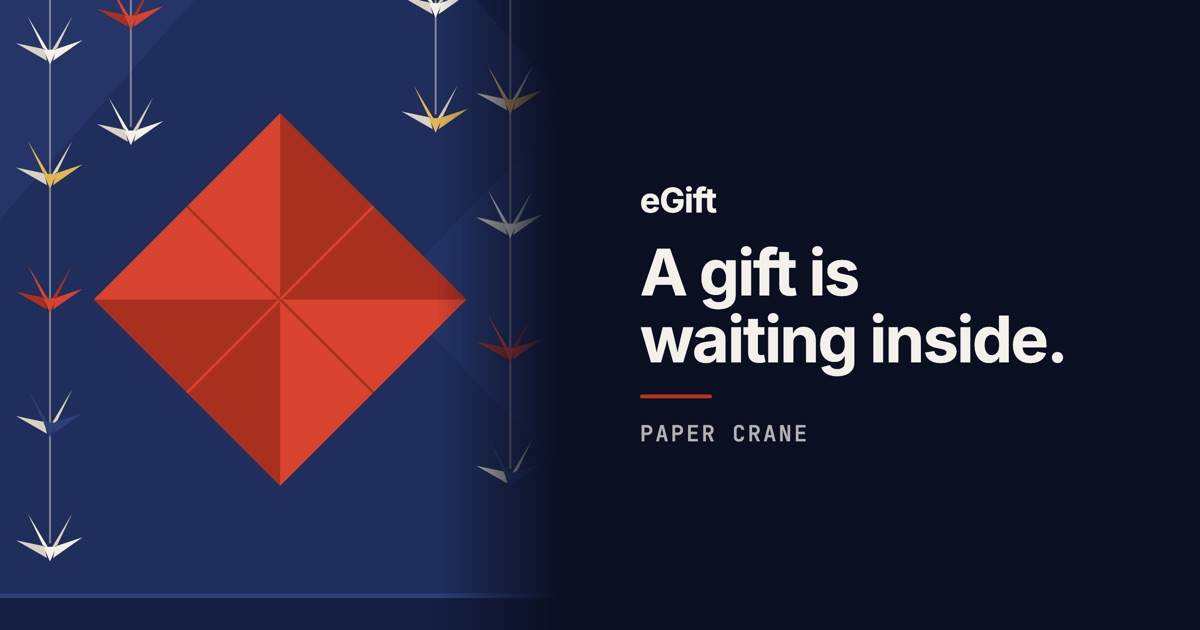
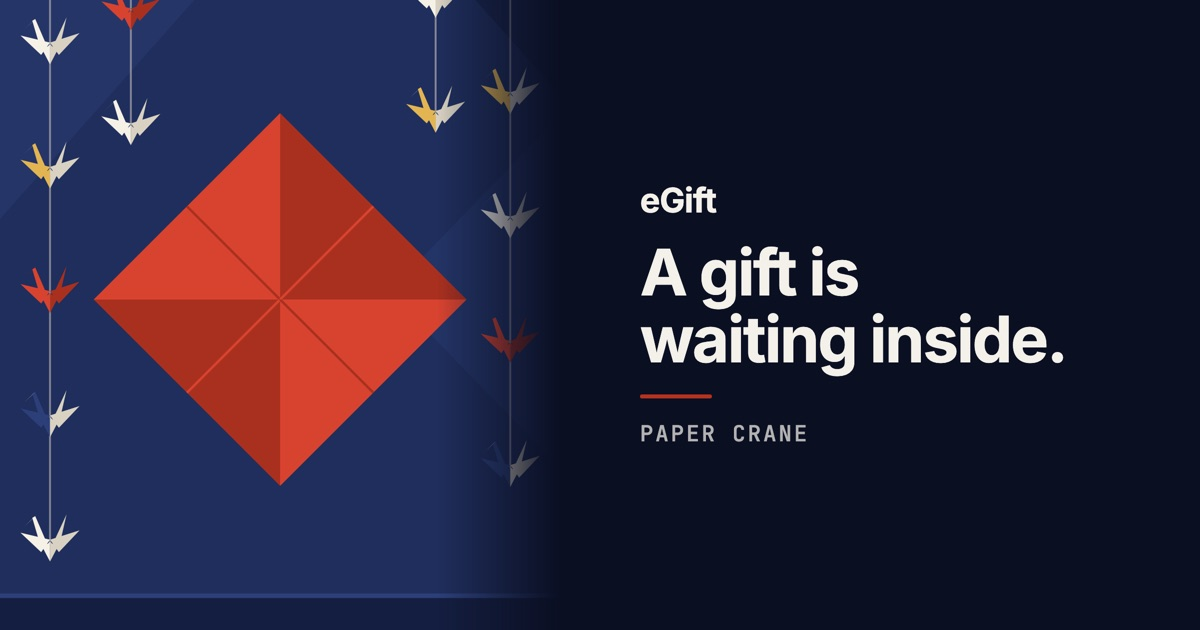
Paper crane: redrawn as an orizuru
The finished crane now has the parts a folded crane has: a compact body,
two broad wings, a thin neck rising steeply with the head folded down, and
a plain spike of a tail. The head is its own layer and folds last. The
small cranes on the strings and in the distance follow the same shape.

diff --git a/src/wrappers/crane.ts b/src/wrappers/crane.ts
@@ -7,7 +7,7 @@ import { scaled, together, tune } from './tune';
  * paper stands on its corner, its creases showing, strings of small cranes
  * hanging down the sides of an indigo room. Opening: the sheet folds in half,
  * gathers to a single spine, and from the spine the body, the wings, the neck
- * and the tail swing out; the crane lifts, and three more go by further off.
+ * and the tail swing out and the head folds down; the crane lifts, and three more go by further off.
  *
  * The stage moves, turns and scales whole layers, so a fold is a scale
  * through zero and the crane is assembled from parts that turn about their
@@ -17,9 +17,9 @@ import { scaled, together, tune } from './tune';
  * (scripts/art/crane.gen.mjs): each SVG's viewBox is its box.
  */
 
-const PARTS = ['body', 'wing-l', 'wing-r', 'neck', 'tail'] as const;
+const PARTS = ['body', 'wing-l', 'wing-r', 'neck', 'head', 'tail'] as const;
 /** How far the finished crane lifts. */
-const LIFT = -12;
+const LIFT = -6;
 
 const open: Step[] = [
     // 1. The sheet folds in half: the upper half comes down (a scale through zero), showing its white side.
@@ -30,17 +30,20 @@ const open: Step[] = [
     { kind: 'move', layer: 'sheet-low', at: 700, dur: 340, ease: 'inout', to: { sx: 0.05 } },
     { kind: 'move', layer: 'sheet-in', at: 1000, dur: 120, to: { opacity: 0 } },
     { kind: 'move', layer: 'sheet-low', at: 1000, dur: 120, to: { opacity: 0 } },
-    // 3. From the spine: the body, then the wings, then neck and tail, each about its joint.
+    // 3. From the spine: the body, then the wings swing down and out, then neck and tail swing up, each
+    //    about its joint; last the tip of the neck folds down into the head.
     { kind: 'move', layer: 'body', at: 960, dur: 80, to: { opacity: 1 } },
     { kind: 'move', layer: 'body', at: 960, dur: 380, ease: 'back', to: { sx: 1 } },
-    { kind: 'move', layer: 'wing-l', at: 1160, dur: 60, to: { opacity: 1 } },
-    { kind: 'move', layer: 'wing-l', at: 1160, dur: 560, ease: 'back', to: { sx: 1, sy: 1, turn: 0 } },
-    { kind: 'move', layer: 'wing-r', at: 1240, dur: 60, to: { opacity: 1 } },
-    { kind: 'move', layer: 'wing-r', at: 1240, dur: 560, ease: 'back', to: { sx: 1, sy: 1, turn: 0 } },
-    { kind: 'move', layer: 'neck', at: 1420, dur: 60, to: { opacity: 1 } },
-    { kind: 'move', layer: 'neck', at: 1420, dur: 460, ease: 'back', to: { sx: 1, turn: 0 } },
-    { kind: 'move', layer: 'tail', at: 1500, dur: 60, to: { opacity: 1 } },
-    { kind: 'move', layer: 'tail', at: 1500, dur: 460, ease: 'back', to: { sx: 1, turn: 0 } },
+    { kind: 'move', layer: 'wing-l', at: 1140, dur: 60, to: { opacity: 1 } },
+    { kind: 'move', layer: 'wing-l', at: 1140, dur: 520, ease: 'back', to: { sx: 1, sy: 1, turn: 0 } },
+    { kind: 'move', layer: 'wing-r', at: 1220, dur: 60, to: { opacity: 1 } },
+    { kind: 'move', layer: 'wing-r', at: 1220, dur: 520, ease: 'back', to: { sx: 1, sy: 1, turn: 0 } },
+    { kind: 'move', layer: 'neck', at: 1360, dur: 60, to: { opacity: 1 } },
+    { kind: 'move', layer: 'neck', at: 1360, dur: 440, ease: 'back', to: { sy: 1, turn: 0 } },
+    { kind: 'move', layer: 'tail', at: 1440, dur: 60, to: { opacity: 1 } },
+    { kind: 'move', layer: 'tail', at: 1440, dur: 440, ease: 'back', to: { sy: 1, turn: 0 } },
+    { kind: 'move', layer: 'head', at: 1800, dur: 40, to: { opacity: 1 } },
+    { kind: 'move', layer: 'head', at: 1800, dur: 220, ease: 'out', to: { turn: 0 } },
     { kind: 'scatter', layer: 'fleck', at: 1300, dur: 1100, count: 12, spread: 130, fall: 70 },
     // 4. The crane lifts; three more pass further off.
     ...PARTS.map((layer): Step => ({ kind: 'move', layer, at: 2000, dur: 900, ease: 'inout', to: { y: LIFT } })),
@@ -61,8 +64,8 @@ const idle: IdleStep[] = [
 const afterglow: IdleStep[] = [
     ...hang,
     ...PARTS.map((layer): IdleStep => ({ layer, field: 'y', amp: 4, period: 5200 })),
-    { layer: 'wing-l', field: 'turn', amp: 5, period: 2600 },
-    { layer: 'wing-r', field: 'turn', amp: 5, period: 2600, phase: 0.5 },
+    { layer: 'wing-l', field: 'turn', amp: 4, period: 2600 },
+    { layer: 'wing-r', field: 'turn', amp: 4, period: 2600, phase: 0.5 },
     { layer: 'flock', field: 'y', amp: 3, period: 4400, phase: 0.3 },
 ];
 
@@ -87,11 +90,13 @@ export const crane: WrapperDef = {
         { id: 'sheet-low', art: 'sheet-low.svg', box: [60, 215, 240, 120], depth: 0.4 },
         { id: 'sheet-in', art: 'sheet-in.svg', box: [60, 215, 240, 120], origin: [0.5, 0], start: { sy: 0 }, depth: 0.4 },
         { id: 'sheet-up', art: 'sheet-up.svg', box: [60, 95, 240, 120], origin: [0.5, 1], depth: 0.4 },
-        { id: 'tail', art: 'tail.svg', box: [184, 190, 116, 92], origin: [8 / 116, 76 / 92], start: { opacity: 0, sx: 0.2, turn: 78 }, depth: 0.45 },
-        { id: 'neck', art: 'neck.svg', box: [44, 196, 132, 86], origin: [124 / 132, 70 / 86], start: { opacity: 0, sx: 0.2, turn: -78 }, depth: 0.45 },
-        { id: 'wing-r', art: 'wing-r.svg', box: [176, 86, 104, 184], origin: [6 / 104, 164 / 184], start: { opacity: 0, sx: 0.25, sy: 0.1, turn: 40 }, depth: 0.5 },
-        { id: 'wing-l', art: 'wing-l.svg', box: [80, 86, 104, 184], origin: [98 / 104, 164 / 184], start: { opacity: 0, sx: 0.25, sy: 0.1, turn: -40 }, depth: 0.5 },
-        { id: 'body', art: 'body.svg', box: [150, 226, 60, 84], start: { opacity: 0, sx: 0.1 }, depth: 0.5 },
+        { id: 'tail', art: 'tail.svg', box: [180, 120, 86, 174], origin: [18 / 86, 164 / 174], start: { opacity: 0, sy: 0.25, turn: 115 }, depth: 0.45 },
+        { id: 'neck', art: 'neck.svg', box: [94, 124, 86, 170], origin: [70 / 86, 160 / 170], start: { opacity: 0, sy: 0.25, turn: -115 }, depth: 0.45 },
+        // The head starts turned up in line with the neck, and folds down about the bend.
+        { id: 'head', art: 'head.svg', box: [64, 122, 50, 50], origin: [40 / 50, 9 / 50], start: { opacity: 0, turn: 108 }, depth: 0.45 },
+        { id: 'wing-r', art: 'wing-r.svg', box: [174, 190, 144, 112], origin: [22 / 144, 82 / 112], start: { opacity: 0, sx: 0.2, sy: 0.3, turn: -72 }, depth: 0.5 },
+        { id: 'wing-l', art: 'wing-l.svg', box: [42, 204, 144, 100], origin: [122 / 144, 68 / 100], start: { opacity: 0, sx: 0.2, sy: 0.3, turn: 72 }, depth: 0.5 },
+        { id: 'body', art: 'body.svg', box: [150, 254, 60, 82], start: { opacity: 0, sx: 0.1 }, depth: 0.5 },
         { id: 'fleck', art: 'fleck.svg', box: [176, 246, 8, 8] },
     ],
     idle,

diff --git a/src/wrappers/colourways.gen.ts b/src/wrappers/colourways.gen.ts
@@ -138,13 +138,13 @@ export const COLOURWAYS: Readonly<Record<string, { readonly own: string; readonl
             {
                 id: 'blue',
                 chip: '#2380DA',
-                files: ['body.svg', 'neck.svg', 'sheet-low.svg', 'sheet-up.svg', 'strings-a.svg', 'strings-b.svg', 'tail.svg', 'wing-l.svg', 'wing-r.svg'],
+                files: ['body.svg', 'head.svg', 'neck.svg', 'sheet-low.svg', 'sheet-up.svg', 'strings-a.svg', 'strings-b.svg', 'tail.svg', 'wing-l.svg', 'wing-r.svg'],
                 map: { '#A9301F': '#1462AB', '#B5321F': '#1369B7', '#D8432F': '#2380DA' },
             },
             {
                 id: 'saffron',
                 chip: '#C77900',
-                files: ['body.svg', 'neck.svg', 'sheet-low.svg', 'sheet-up.svg', 'strings-a.svg', 'strings-b.svg', 'tail.svg', 'wing-l.svg', 'wing-r.svg'],
+                files: ['body.svg', 'head.svg', 'neck.svg', 'sheet-low.svg', 'sheet-up.svg', 'strings-a.svg', 'strings-b.svg', 'tail.svg', 'wing-l.svg', 'wing-r.svg'],
                 map: { '#A9301F': '#9E5E00', '#B5321F': '#A76400', '#D8432F': '#C77900' },
             },
         ],
